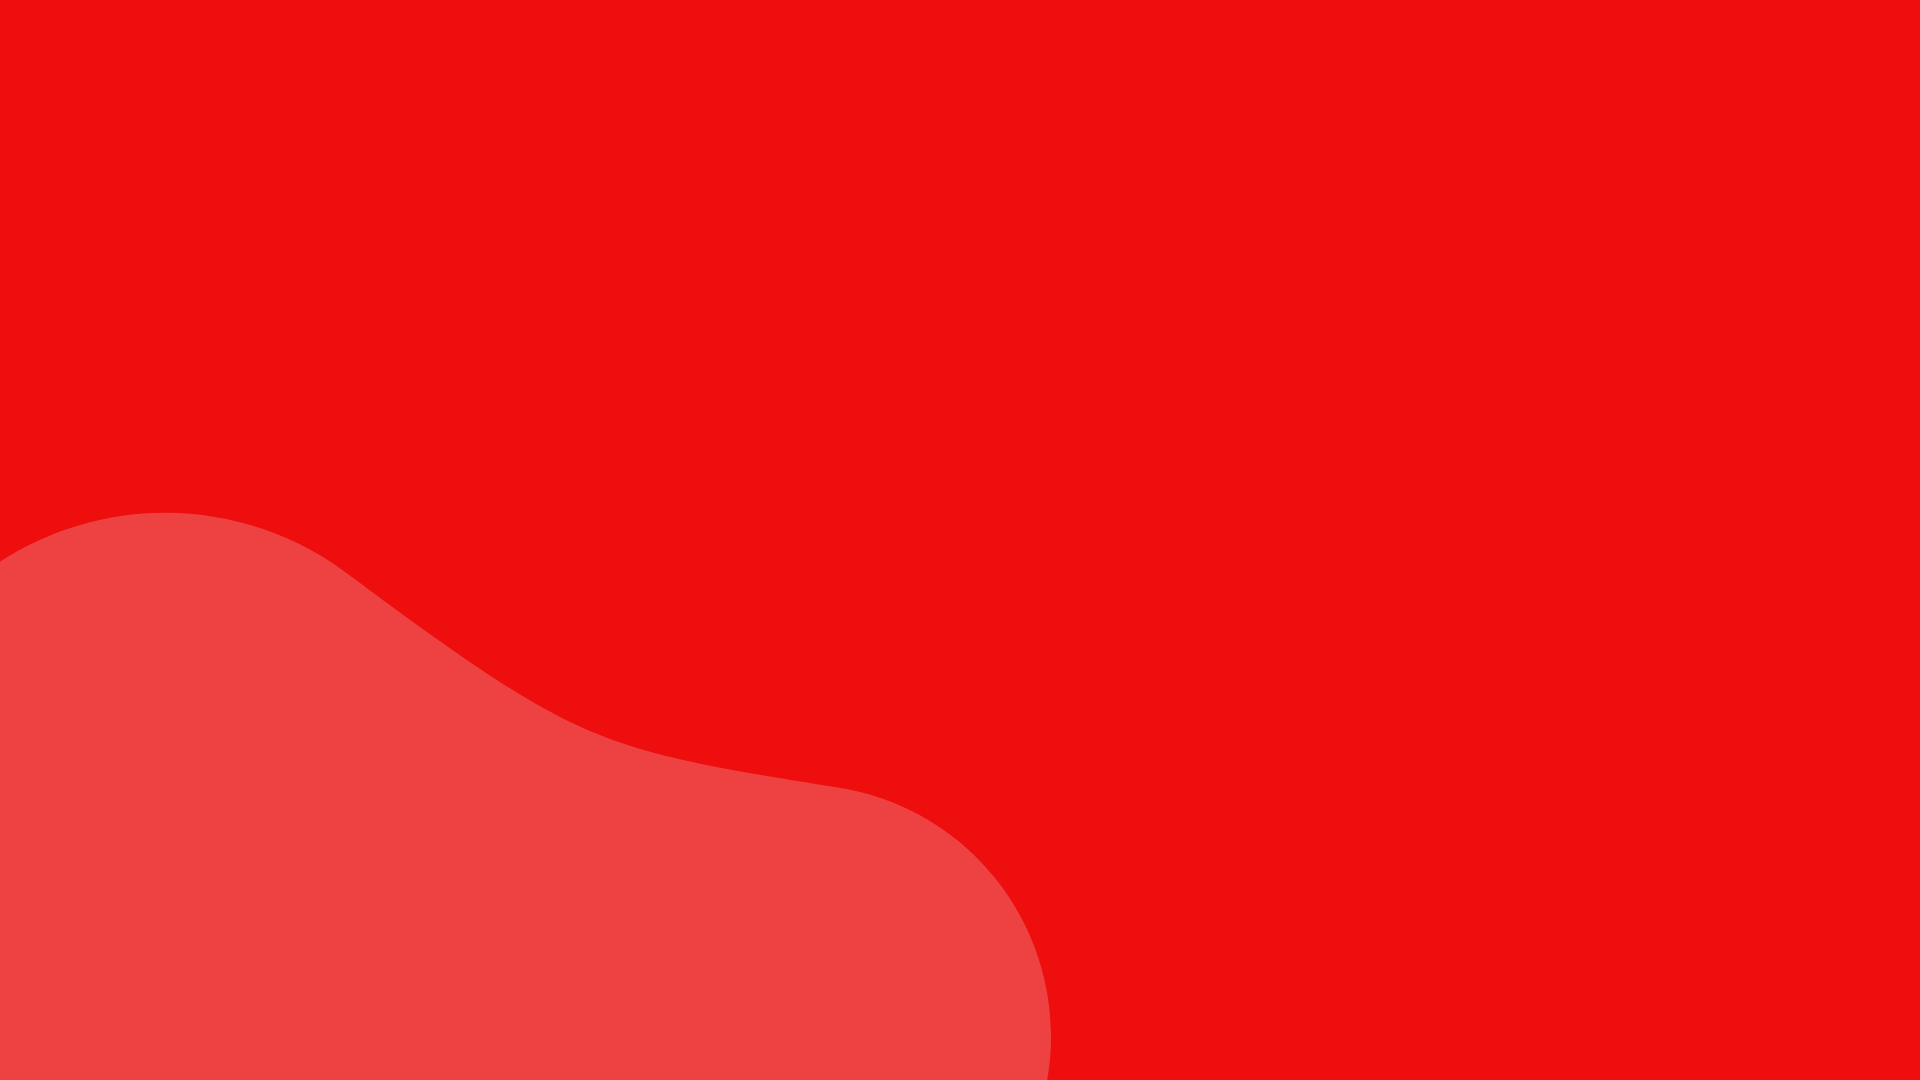
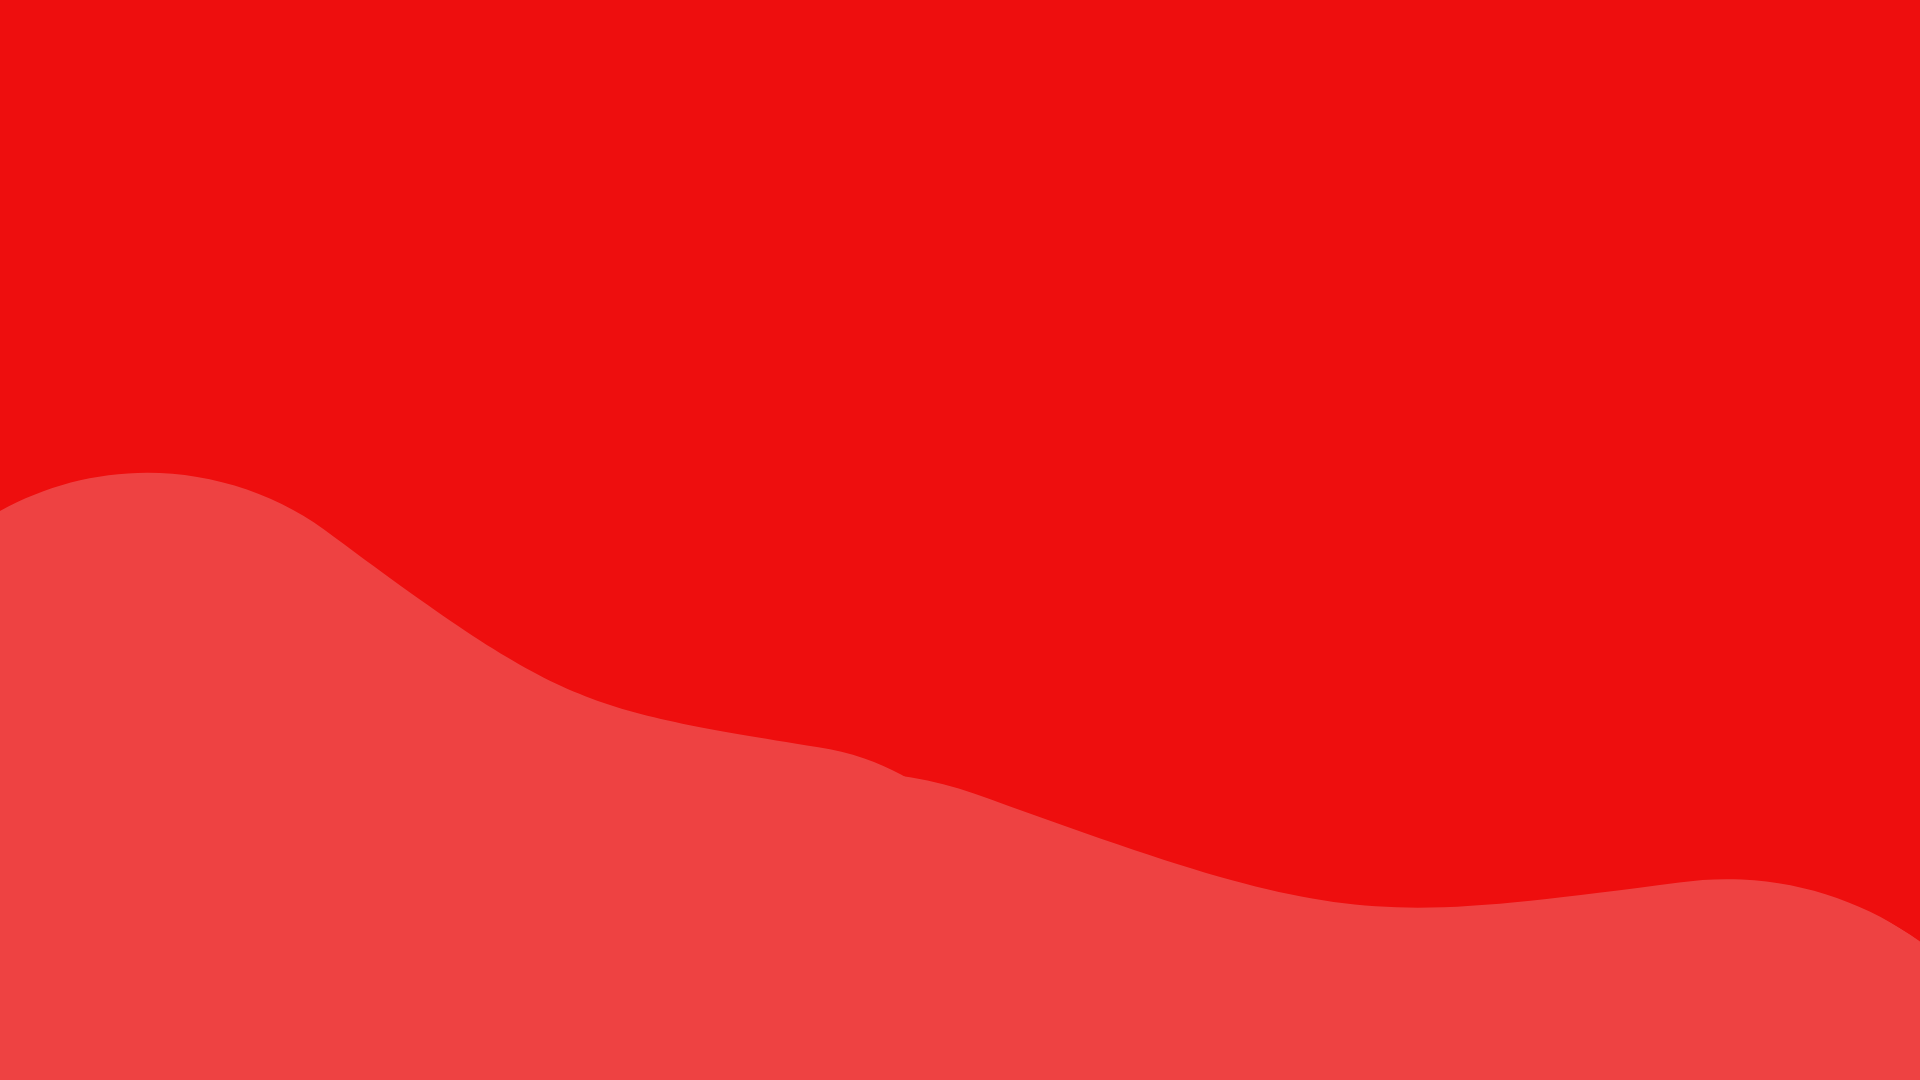
Em andamento aba de contato

Changed region(s): [[0.0, 0.4278, 1.0, 1.0]]

diff --git a/Site Institucional/public/index.html b/Site Institucional/public/index.html
@@ -73,10 +73,25 @@
             pode elevar a performance e a segurança das suas operações.
           </div>
         </div>
-
       </div>
   </section>
 
+  <section class="tres">
+    <div class="fundocontato">
+      <div class="containercontato">
+        <div class="titulocontato">
+          <h1>Informações de Contato</h1>
+        </div>
+        <div class="textocontato">
+          <p>Pronto para elevar a performance e segurança dos seus ATMs? Fale conosco e descubra como podemos transformar a gestão dos seus caixas eletrônicos com soluções inovadoras e personalizadas.</p>
+          <p>Estamos ansiosos para conectar com você e explorar como a VaultWise pode otimizar suas operações de ATMs. Entre em contato agora e dê o próximo passo rumo à excelência!</p>
+        </div>
+      </div>
+      <div class="mapa">
+
+      </div>
+    </div>
+  </section>
 </body>
 
 </html>

diff --git a/Site Institucional/public/css/style.css b/Site Institucional/public/css/style.css
@@ -157,3 +157,44 @@ nav ul li a.ativo {
 .texto_sobre_nos2 img {
     width: 900px;
 }
+
+/* CSS Contato */
+
+.tres{
+    width: 100%;
+    height: 100vh;
+    overflow: hidden;
+}
+
+.fundocontato {
+    width: 100%;
+    height: 100vh;
+    background-image: url("imagens/fundocontato.png");
+    position: relative;
+    z-index: -1;
+}
+.containercontato {
+    width: 100%;
+    height: 85%;
+    display: flex;
+    flex-direction: column;
+    align-items: center;
+}
+.titulocontato{
+    width: 50%;
+    font-size: 35px;
+    font-family: "League Spartan";
+    color: #fff;
+    display: flex;
+    align-items: center;
+    flex-direction: column;
+}
+.textocontato{
+    margin-top: 20px;
+    width: 100%;
+    font-size: 25px;
+    font-family: "League Spartan";
+    color: #fff;
+    width: 87%;
+    text-align: justify; 
+}
